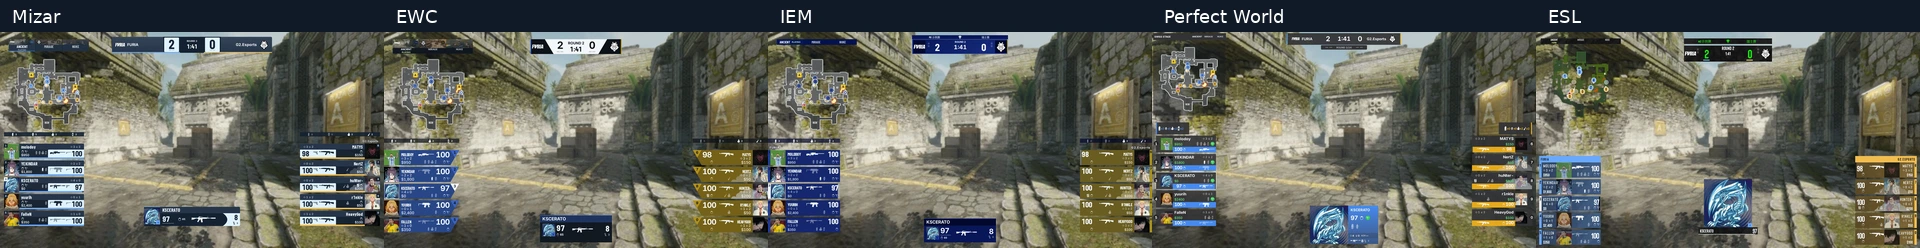
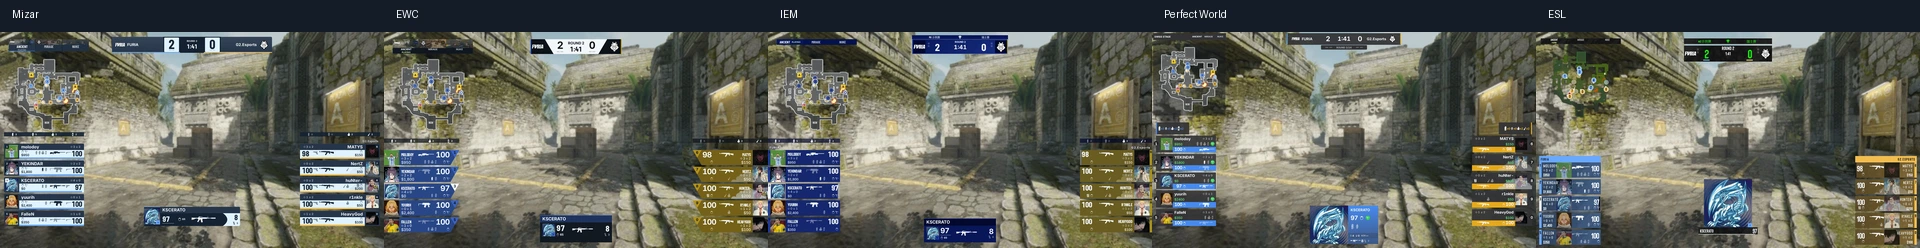
refactor(web): unify native player cards around a continuous combat band

diff --git a/apps/web/src/program/designs/native.css b/apps/web/src/program/designs/native.css
@@ -234,6 +234,23 @@
   .player-rail--right .player-rail__avatar {
     border-radius: 0 4px 4px 0;
   }
+  .player-rail__card[data-side] .player-rail__avatar {
+    background: var(--mizar-hud-surface-primary);
+  }
+  .player-rail__avatar img {
+    width: 64px;
+    height: 64px;
+    margin: 6px;
+    border-radius: 3px;
+  }
+  .player-rail__avatar::after {
+    display: none;
+  }
+  .player-rail__equipment .player-rail__icon,
+  .player-rail__utility-icons .player-rail__icon {
+    background-color: var(--mizar-hud-surface-strong);
+    opacity: 0.65;
+  }
   .player-rail__card[data-avatar='false'] .player-rail__avatar {
     width: 20px;
     flex-basis: 20px;
@@ -245,8 +262,8 @@
     width: auto;
     height: 76px;
     background: linear-gradient(
-      var(--mizar-hud-surface-primary) 0 30px,
-      color-mix(in srgb, var(--mizar-hud-surface-strong) 94%, transparent) 30px
+      var(--mizar-hud-surface-primary) 0 32px,
+      var(--mizar-broadcast-brand-front) 32px
     );
     border-radius: 0 4px 4px 0;
     box-shadow: inset 0 1px color-mix(in srgb, var(--mizar-broadcast-brand-front) 12%, transparent);
@@ -255,20 +272,7 @@
     border-radius: 4px 0 0 4px;
   }
   .player-rail__body::after {
-    content: '';
-    position: absolute;
-    right: 0;
-    top: 30px;
-    width: 180px;
-    height: 39px;
-    border-radius: 4px 0 0 0;
-    background: var(--mizar-broadcast-brand-front);
-    pointer-events: none;
-  }
-  .player-rail--right .player-rail__body::after {
-    right: auto;
-    left: 0;
-    border-radius: 0 4px 0 0;
+    display: none;
   }
   .player-rail__body::before {
     display: none;
@@ -282,11 +286,11 @@
   }
   .player-rail__name {
     max-width: calc(100% - 94px);
-    font-family: var(--mizar-type-family-display), var(--mizar-type-family-body);
+    font-family: var(--mizar-type-family-body);
     color: var(--mizar-hud-text-primary);
-    font-size: 22px;
-    font-weight: 700;
-    letter-spacing: 0.02em;
+    font-size: 21px;
+    font-weight: 650;
+    letter-spacing: 0;
     text-shadow: none;
   }
   .player-rail__health-value {
@@ -396,16 +400,17 @@
     left: 10px;
     right: auto;
   }
-  .player-rail__money {
+  .player-rail__card .player-rail__money {
     position: absolute;
     left: 10px;
     bottom: 10px;
     font-size: 16px;
     font-weight: 600;
-    color: var(--mizar-hud-text-primary);
+    color: var(--mizar-hud-surface-strong);
+    opacity: 1;
     z-index: 3;
   }
-  .player-rail--right .player-rail__money {
+  .player-rail--right .player-rail__card .player-rail__money {
     left: auto;
     right: 10px;
   }
@@ -453,7 +458,8 @@
     left: 78px;
     bottom: 9px;
     font-size: 12px;
-    color: var(--mizar-hud-text-muted);
+    color: var(--mizar-hud-surface-strong);
+    opacity: 0.6;
   }
   .player-rail--right .player-rail__spent {
     left: auto;
@@ -464,9 +470,9 @@
     height: 18px;
   }
   .player-rail__endcap {
-    left: 0;
+    left: 6px;
     right: auto;
-    top: 0;
+    top: 6px;
     width: 18px;
     height: 20px;
     border: 0;
@@ -475,7 +481,7 @@
   }
   .player-rail__endcap--right {
     left: auto;
-    right: 0;
+    right: 6px;
   }
   .player-rail__endcap strong {
     color: var(--mizar-hud-text-primary);
@@ -540,6 +546,7 @@
   }
   .player-rail__card--dead .player-rail__name {
     max-width: 202px;
+    font-size: 19px;
     color: var(--mizar-hud-text-primary);
   }
   .player-rail__card--dead .player-rail__combat .player-rail__kd {
@@ -680,10 +687,10 @@
     box-shadow: inset 0 1px color-mix(in srgb, var(--mizar-broadcast-brand-front) 12%, transparent);
   }
   .focused-player__name {
-    font-family: var(--mizar-type-family-display), var(--mizar-type-family-body);
+    font-family: var(--mizar-type-family-body);
     color: var(--mizar-hud-text-primary);
-    font-size: 24px;
-    font-weight: 700;
+    font-size: 21px;
+    font-weight: 650;
   }
   .focused-player__metrics {
     position: absolute;

diff --git a/apps/web/src/program/designs/native-match-states.css b/apps/web/src/program/designs/native-match-states.css
@@ -56,10 +56,10 @@
     inset: 0 0 0 auto;
   }
   .broadcast-pause__player-name {
-    font-family: var(--mizar-type-family-display), var(--mizar-type-family-body);
-    font-size: 22px;
-    font-weight: 700;
-    letter-spacing: 0.02em;
+    font-family: var(--mizar-type-family-body);
+    font-size: 21px;
+    font-weight: 650;
+    letter-spacing: 0;
     color: var(--mizar-hud-text-primary);
   }
   .broadcast-pause__equipment {

diff --git a/docs/design/hud-broadcast-presets.md b/docs/design/hud-broadcast-presets.md
@@ -10,10 +10,10 @@
 
 - 从 EWC 吸收深浅主次、死亡态减重和 Focus 去重，从 IEM 吸收紧凑对齐、五人固定行位，从上海吸收完整身份、装备/真实生命/预测的分工，从 ESL 吸收字号、字形与主读数共同承担识别；不复用其整套轮廓。
 - 比赛内以平直网格为主，冷黑队伍两翼、独立冰白比分块与深色计时区形成三层读数，64px 比分优先于 30px 普通时钟；不在比分区使用向内凹的弧切。品牌弧面用于全屏包装、开场揭示和 Focus/暂停的非关键边缘。`broadcast.brand` 取自既有标志，CT/T 只表达当前阵营，品牌蓝不代表左队。辅助经济使用近白，不沿用荧光绿作为品牌色。
-- 比分、昵称、暂停数字和短标题使用已有 Barlow Condensed；中文姓名与双语队名使用 Inter / 中文系统回退，数字用 tabular-nums。顶部队名固定 19px、允许换行；长昵称保留现有省略策略，Focus 提供较宽的完整名称区。
+- 比分、生命、暂停数字和短标题使用已有 Barlow Condensed；昵称、Focus/暂停姓名与双语队名使用 Inter / 中文系统回退，数字用 tabular-nums。顶部队名固定 19px、允许换行；长昵称保留现有省略策略，Focus 提供较宽的完整名称区。
 - 默认比分 envelope 800×152，实际主条 800×80，位于 (560,24)。两侧身份各 256px，比分各 84px，中间 120px；时间/目标在同一个区域切换，不改变两翼位置。
 - 侧栏 envelope 保持 440×478，放在 (20,492) 与右侧对称位置；可见卡宽 400、高 76、间隔 8，卡片 4px / Focus 和比分 6px 小圆角，外侧 76 方形头像、内侧 HP 与武器。无头像仅收拢本卡到 20px 槽位；死亡不移动五行和姓名，正文仅绘制外侧 272×56 深色底板，头像裁至 56px 可见高度；保留姓名、DEAD、K/D、经济、已取得的 ADR/DMG 与击杀标记。观察者白色细框/编号，扣血残影近白，C4 预测沿用斜纹叠层、真实 HP 使用 7px 直条。
-- 五套共用 `PlayerStatusEffects` 的播出烟雾云形、强度与渐隐；默认烟雾在头像之上、姓名/HP/装备之下。蓝灰身份层、深色装备/经济层与内侧冰白武器/HP 模块来自既有品牌 token / 默认 recipe，昵称 22px、HP 38px、K/D 14px、经济 16px；武器与生命在同一冰白战斗模块，常态使用深色素材/数字，低生命值保留危险色；不通过产品全局 CSS 加色。
+- 五套共用 `PlayerStatusEffects` 的播出烟雾云形、强度与渐隐；默认烟雾在头像之上、姓名/HP/装备之下。蓝灰身份层与完整冰白战斗带来自既有品牌 token / 默认 recipe，昵称 21px、HP 38px、K/D 14px、经济 16px；武器与生命在同一冰白战斗带，常态使用深色素材/数字，低生命值保留危险色；不通过产品全局 CSS 加色。
 - Focus envelope 480×176、可见主体 480×96，默认收起重复统计。弹药使用冰白弧切端部与深色数字；死亡或无弹药读数时收起端部。打开统计后主体 120px，仍在原 envelope 内；其它可选字段与开关全部保留。
 - 默认启用既有 720×84 冻结历史，以及同 Gameplay 画布内的战术/技术暂停编排。暂停的比分/经济横栏、名单装备模块和倒计时使用冰白，身份/金钱保持深色；冻结/暂停历史用冰白显示已完成回合，深色未来格与缺失格保持区分，历史 CT/T 只负责胜方底边。事实、胜因、剩余次数和时钟仍来自已有 projection；没有新 OBS 场景。
 - 弧形家族采用开口曲面、冰白前沿与蓝色面；Focus 端部按 86×64 绘制，暂停端部按 160×190 绘制并保持相同比例的曲线控制点。不再使用 `preserveAspectRatio="none"` 或将端部压成 28px 窄条。CSS 使用固定比例蒙版，容器变化只裁切，稳定的身份层、战斗模块与数字字形在无弹药时继续承担识别。大场景弧面保留原有构图。

diff --git a/docs/design/reviews/mizar-native-refinement.md b/docs/design/reviews/mizar-native-refinement.md
@@ -4,9 +4,9 @@
 
 ## 最终取舍
 
-- 选手卡：蓝灰身份层、深色辅助装备/经济、内侧冰白武器＋HP 模块。姓名 22px、HP 38px、K/D 14px、经济 16px，昵称与数字使用已有 Barlow Condensed / 中文回退；4px 圆角。较大的关键字和深浅分区承担识别，避免整行浅色姓名带把十张卡切成等权白条。
+- 选手卡：蓝灰身份层与完整冰白战斗带；武器、HP、经济和装备统一落在战斗带上，不再用局部白块切割卡面。姓名 21px Inter / 中文回退、HP 38px Barlow Condensed、K/D 14px、经济 16px；4px 圆角。76px 头像槽内放置 64px 方图，留出 6px 边框；自然字宽表达身份，凝缩大数字表达战斗能力。
 - 比分：深色队伍翼、两个有内边距的浅色比分块、深色计时区；64px 比分与 30px 正常时间区分。外缘 6px、比分块 4px 圆角；下包/拆弹保留事实颜色与局部目标表达。
-- 死亡：五人外框、行位与昵称起点不动；可见正文收至 272×56，头像仅显示上方 56px；武器/HP 浅色模块撤去。姓名、DEAD、已取得的统计与辨认标记保留，击杀徽记避开死亡文字。
+- 死亡：五人外框、行位与昵称起点不动；可见正文收至 272×56，头像仅显示上方 56px；整条浅色战斗带撤去。姓名、DEAD、已取得的统计与辨认标记保留，击杀徽记避开死亡文字。
 - 暂停：浅色比分/经济横栏与倒计时，深色身份与金钱，浅色装备模块；中央冰白赛事区与适配尺寸的蓝色弧形。没有新场景或时钟。
 - 历史：已完成回合浅底，未来回合深底，缺失回合保持空缺；CT/T 底边表达当时胜方，图标仍表达真实胜因。
 - 地图条：原图片行 28px，队标 28px 加 5px 顶偏移使底部超出行区。改为 22px 方形 contain 槽与 3px 顶边，完整显示宽/方队标；地图文字不再碰到图像。
